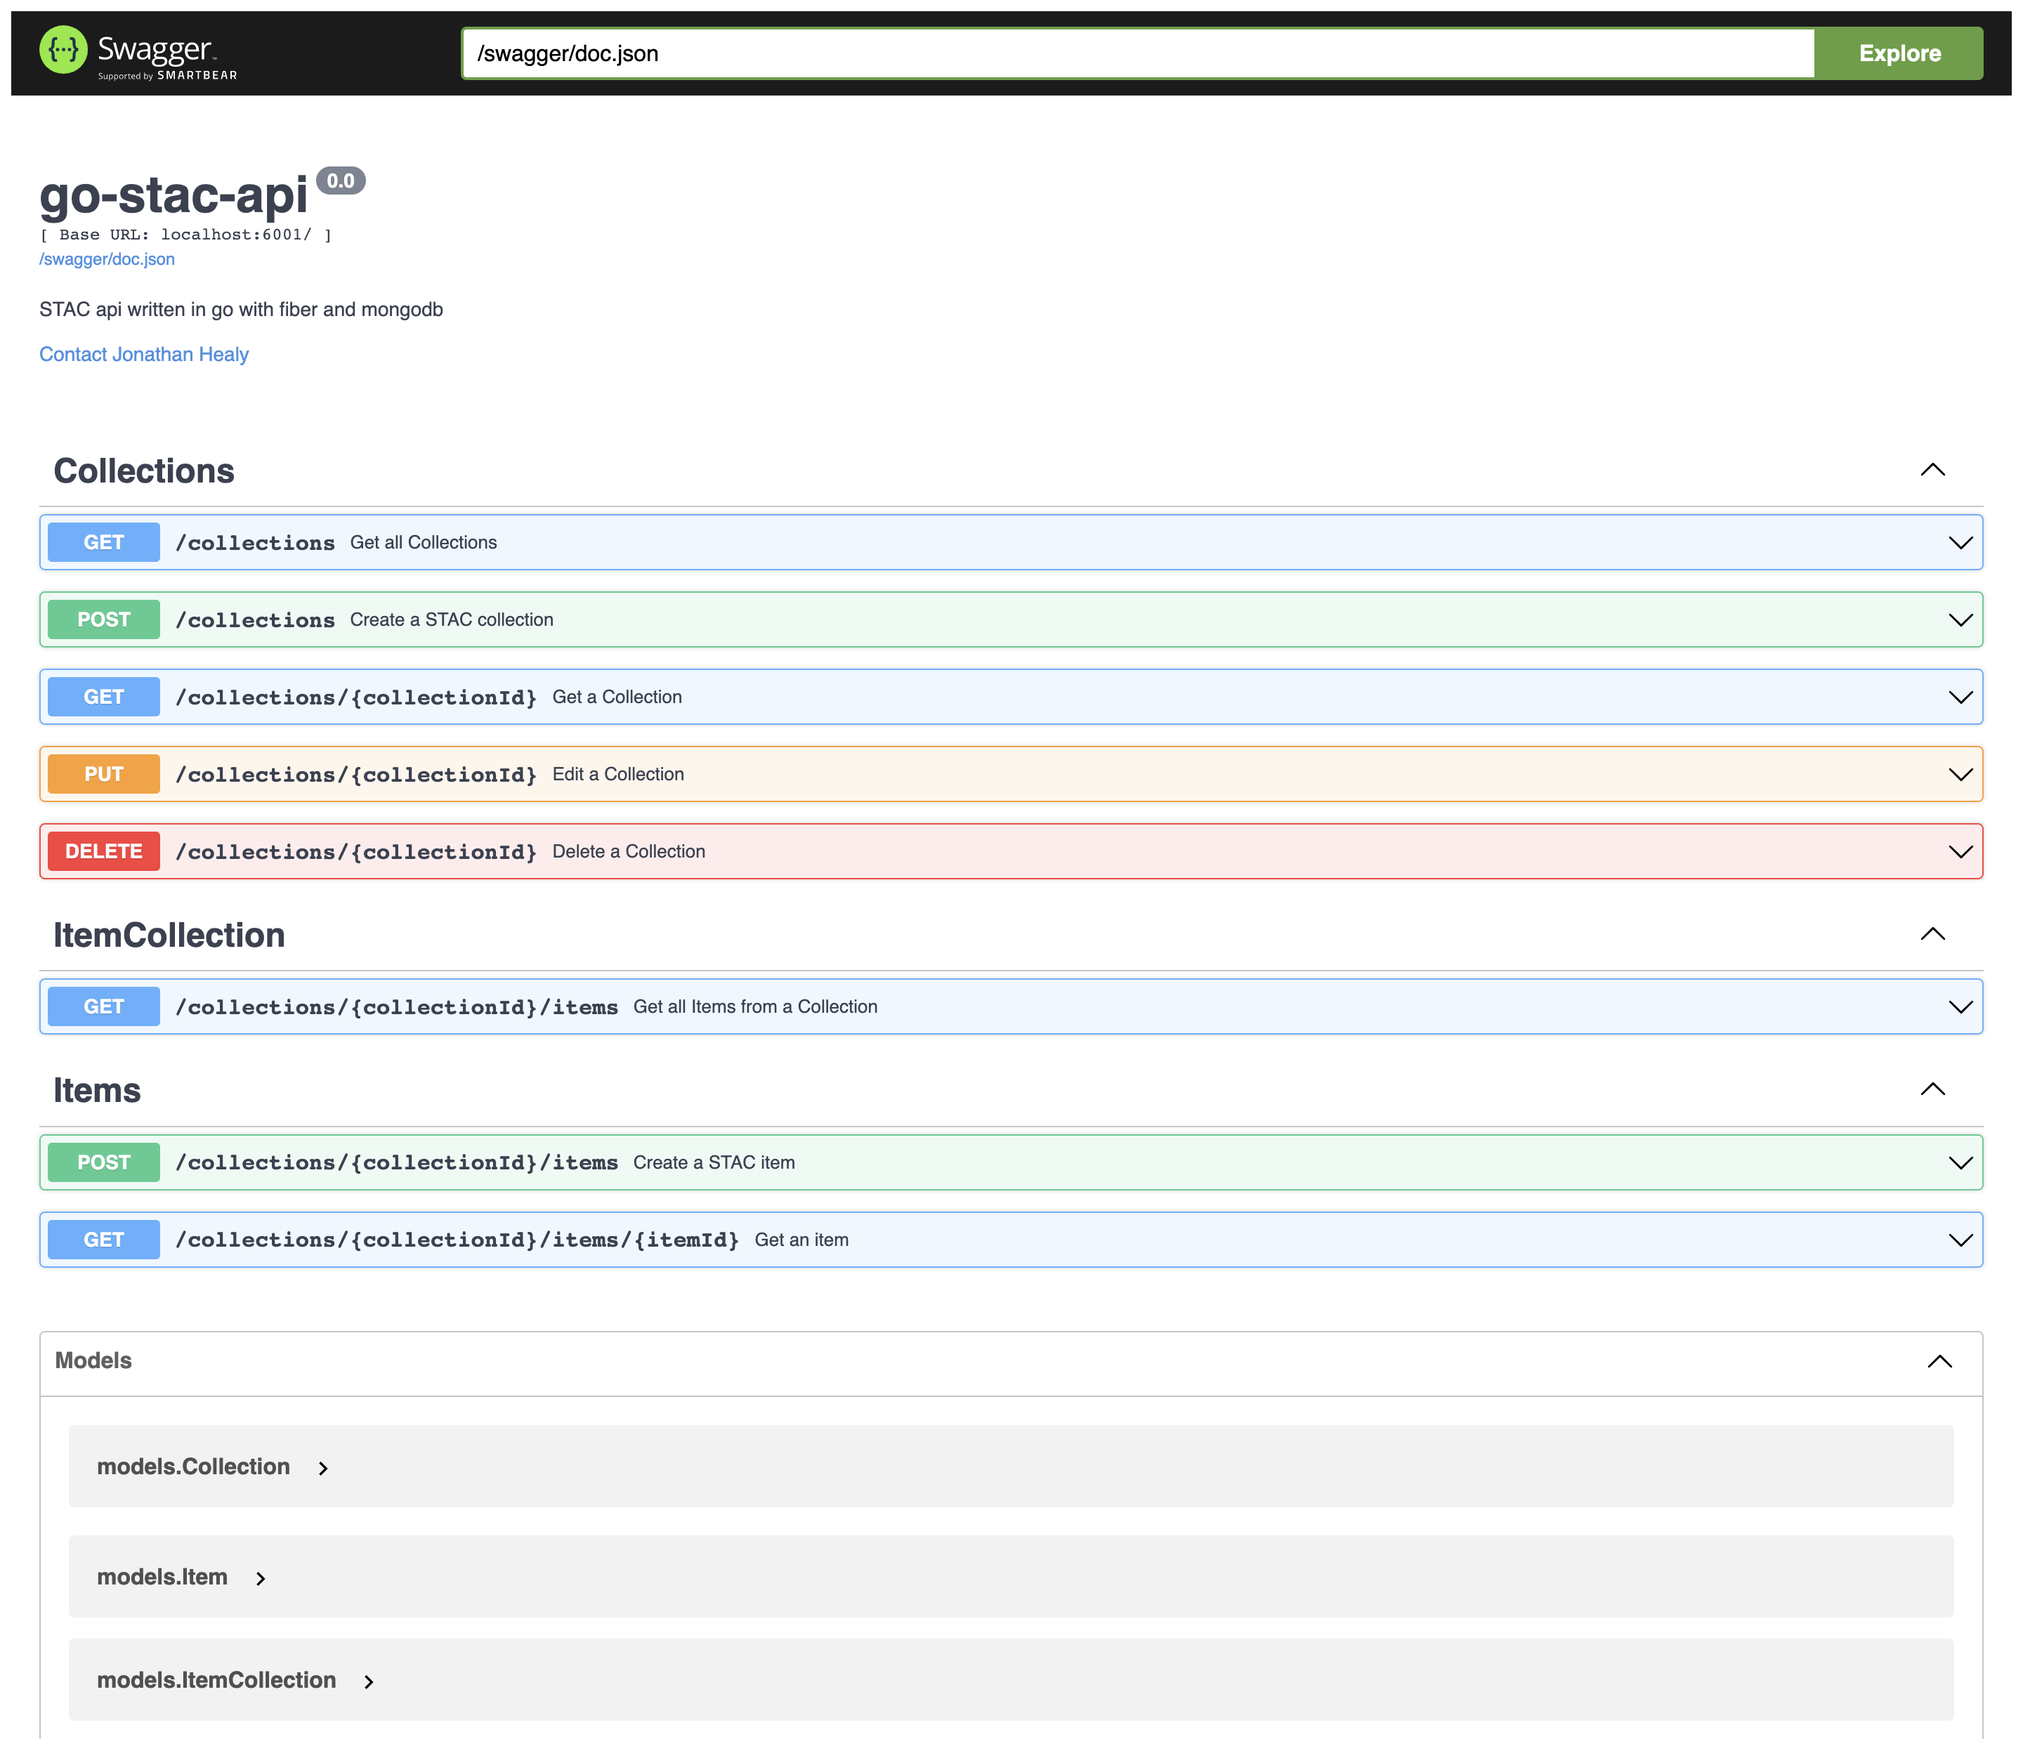
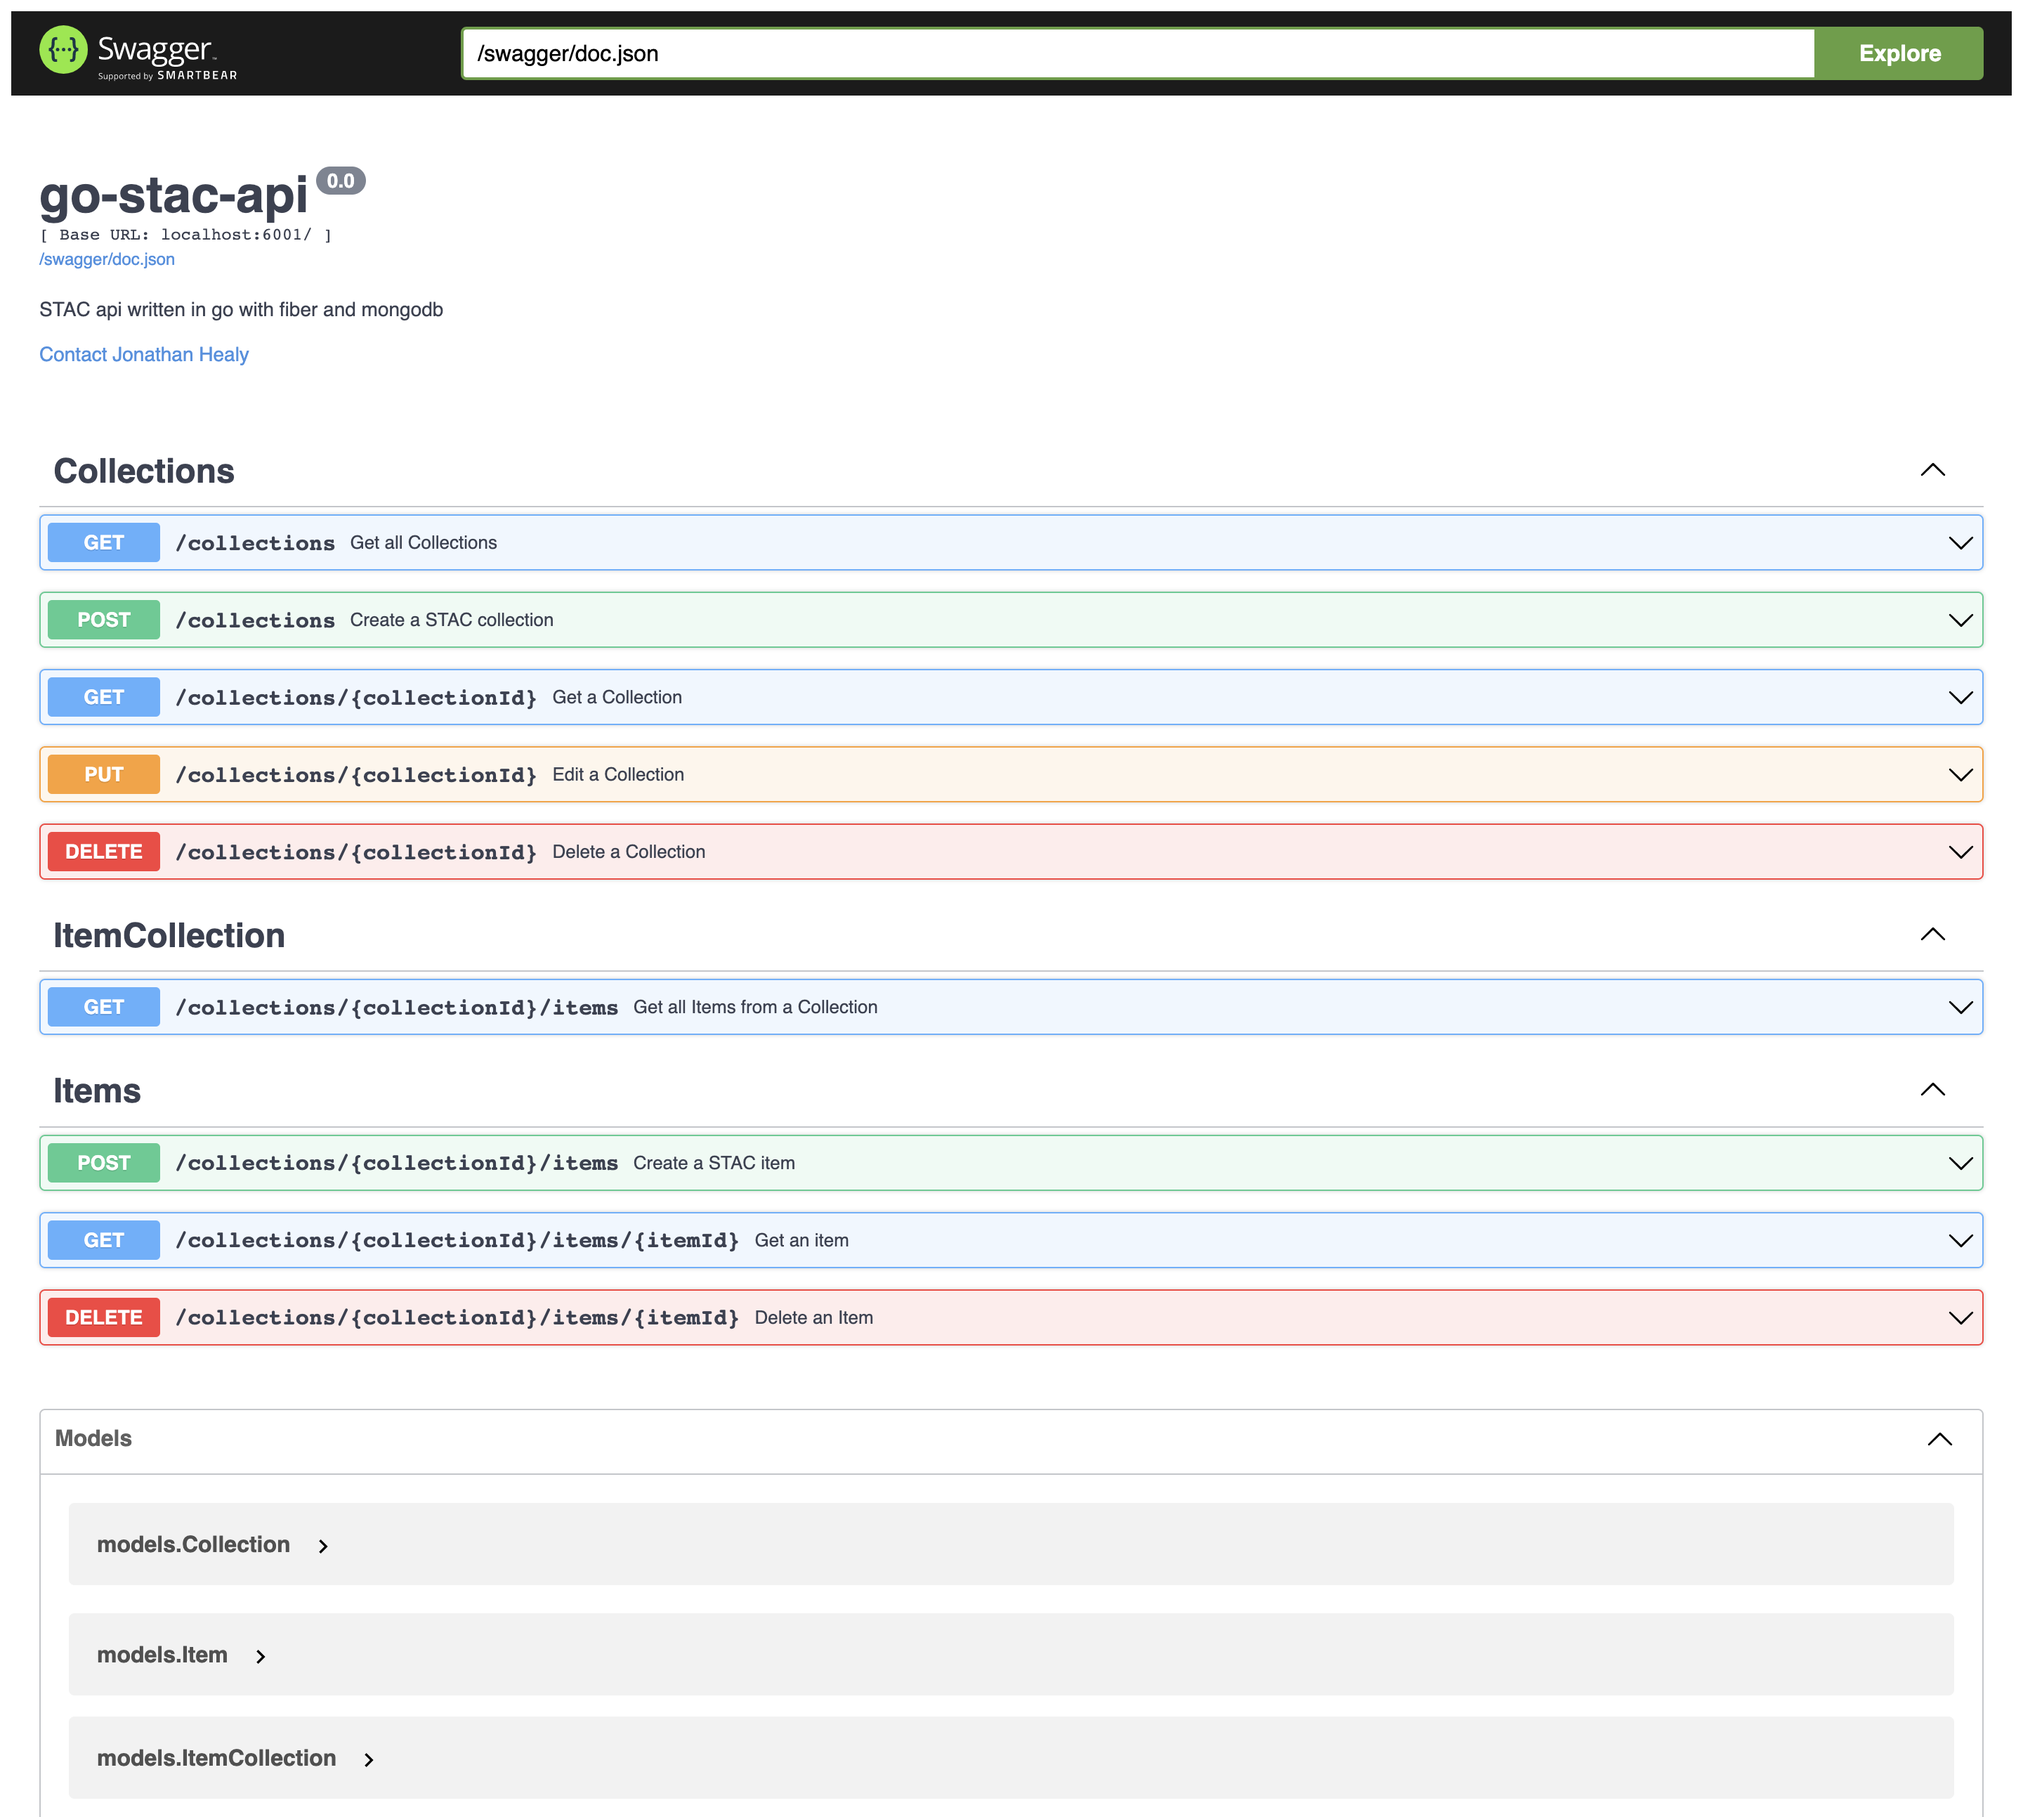
update docs

diff --git a/docs/docs.go b/docs/docs.go
@@ -273,6 +273,37 @@ const docTemplate = `{
                         }
                     }
                 }
+            },
+            "delete": {
+                "description": "Delete an Item by ID is a specified collection",
+                "consumes": [
+                    "application/json"
+                ],
+                "produces": [
+                    "application/json"
+                ],
+                "tags": [
+                    "Items"
+                ],
+                "summary": "Delete an Item",
+                "operationId": "delete-item-by-id",
+                "parameters": [
+                    {
+                        "type": "string",
+                        "description": "Item ID",
+                        "name": "itemId",
+                        "in": "path",
+                        "required": true
+                    },
+                    {
+                        "type": "string",
+                        "description": "Collection ID",
+                        "name": "collectionId",
+                        "in": "path",
+                        "required": true
+                    }
+                ],
+                "responses": {}
             }
         }
     },
